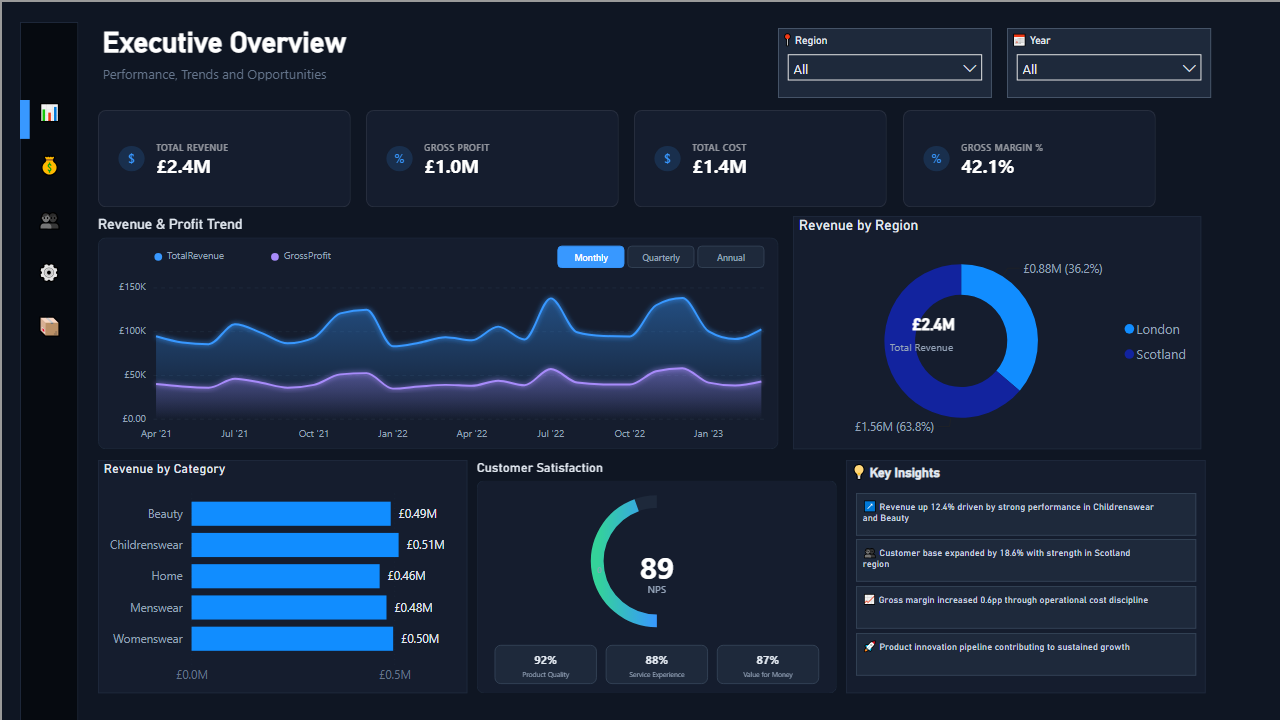
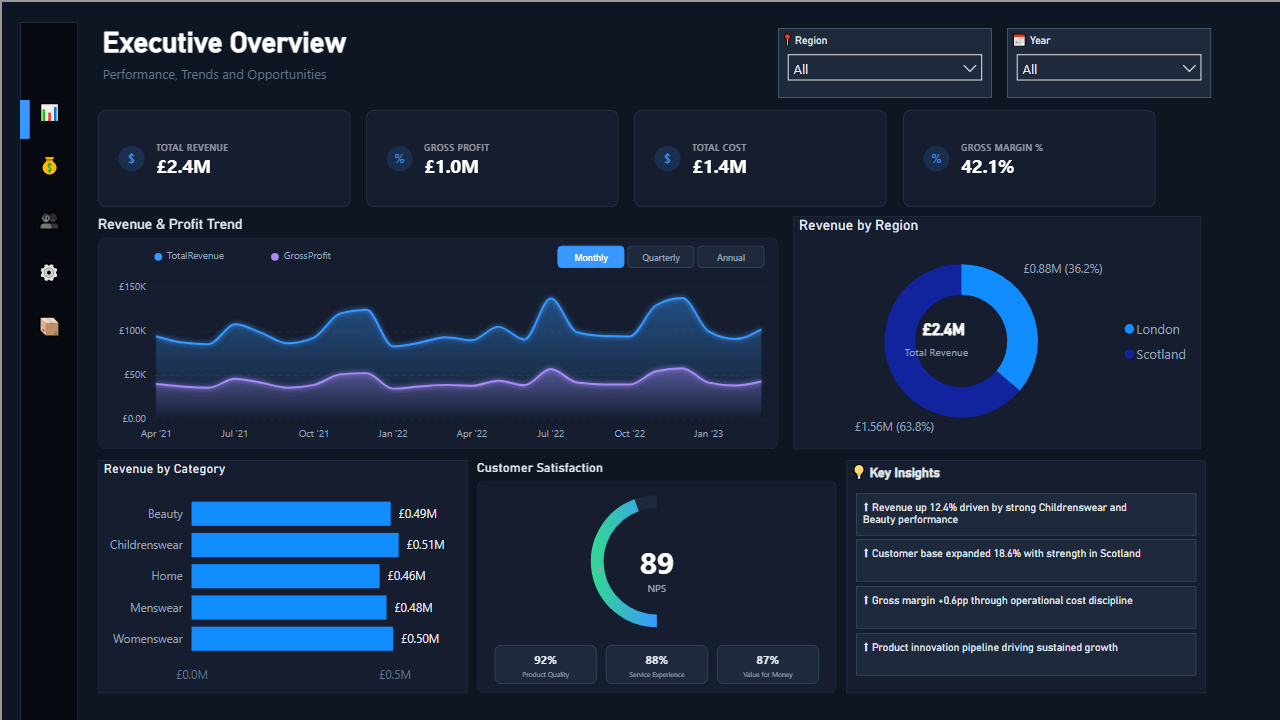
fix(07e): center 89+NPS block, adjust donut KPI position, improve Key Insights readability

diff --git a/custom-visuals/premiumGauge/src/visual.ts b/custom-visuals/premiumGauge/src/visual.ts
@@ -202,17 +202,20 @@ export class Visual implements IVisual {
                 .style("font-size", `${markerFontSize}px`)
                 .text("");
 
-            // Score text
+            // Score text + NPS label — centered as a combined block
+            const combinedHeight = fontSize + labelFontSize + 4;
+            const blockTopY = arcCenterY - combinedHeight / 2 + fontSize * 0.35;
+
             this.scoreText
                 .attr("x", arcCenterX)
-                .attr("y", arcCenterY + fontSize * 0.6)
+                .attr("y", blockTopY + fontSize * 0.8)
                 .style("font-size", `${fontSize}px`)
                 .text(Math.round(score).toString());
 
             // NPS label
             this.npsLabel
                 .attr("x", arcCenterX)
-                .attr("y", arcCenterY + fontSize * 0.6 + labelFontSize + 4)
+                .attr("y", blockTopY + fontSize + labelFontSize + 2)
                 .style("font-size", `${labelFontSize}px`)
                 .text("NPS");
 

diff --git a/scripts/_deploy_exec_v1.py b/scripts/_deploy_exec_v1.py
@@ -458,9 +458,9 @@ donut_vis["visual"] = {
 add("definition/pages/exec/visuals/donut_region/visual.json", donut_vis)
 
 # Center KPI label for donut - centered on the donut ring
-donut_center_x = donut_x + 95  # center horizontally on donut ring
-donut_center_y = hero_y + 100  # vertical center of donut ring
-donut_kpi = vis_container("donut_kpi", donut_center_x, donut_center_y, 100, 45, 20)
+donut_center_x = donut_x + 110  # center on ring (accounting for legend on right)
+donut_center_y = hero_y + 105   # vertical center of ring (below title)
+donut_kpi = vis_container("donut_kpi", donut_center_x, donut_center_y, 90, 42, 20)
 donut_kpi["visual"] = {
     "visualType": "cardVisual",
     "query": {"queryState": {"Values": {"projections": [{
@@ -607,10 +607,10 @@ add("definition/pages/exec/visuals/key_insights_bg/visual.json", insights_bg)
 
 # Individual insight lines
 insight_lines = [
-    ("↗", "Revenue up 12.4% driven by strong performance in Childrenswear and Beauty"),
-    ("👥", "Customer base expanded by 18.6% with strength in Scotland region"),
-    ("📈", "Gross margin increased 0.6pp through operational cost discipline"),
-    ("🚀", "Product innovation pipeline contributing to sustained growth"),
+    ("⬆", "Revenue up 12.4% driven by strong Childrenswear and Beauty performance"),
+    ("⬆", "Customer base expanded 18.6% with strength in Scotland"),
+    ("⬆", "Gross margin +0.6pp through operational cost discipline"),
+    ("⬆", "Product innovation pipeline driving sustained growth"),
 ]
 for il_idx, (il_icon, il_text) in enumerate(insight_lines):
     il_y = bar_y + 34 + il_idx * 48
@@ -625,8 +625,8 @@ for il_idx, (il_icon, il_text) in enumerate(insight_lines):
             "title": [{"properties": {
                 "show": {"expr": {"Literal": {"Value": "true"}}},
                 "text": {"expr": {"Literal": {"Value": "'" + il_icon + " " + il_text + "'"}}},
-                "fontColor": {"solid": {"color": {"expr": {"Literal": {"Value": "'#cbd5e1'"}}}}},
-                "fontSize": {"expr": {"Literal": {"Value": "8D"}}},
+                "fontColor": {"solid": {"color": {"expr": {"Literal": {"Value": "'#e2e8f0'"}}}}},
+                "fontSize": {"expr": {"Literal": {"Value": "9D"}}},
             }}],
             "background": [{"properties": {
                 "show": {"expr": {"Literal": {"Value": "true"}}},
